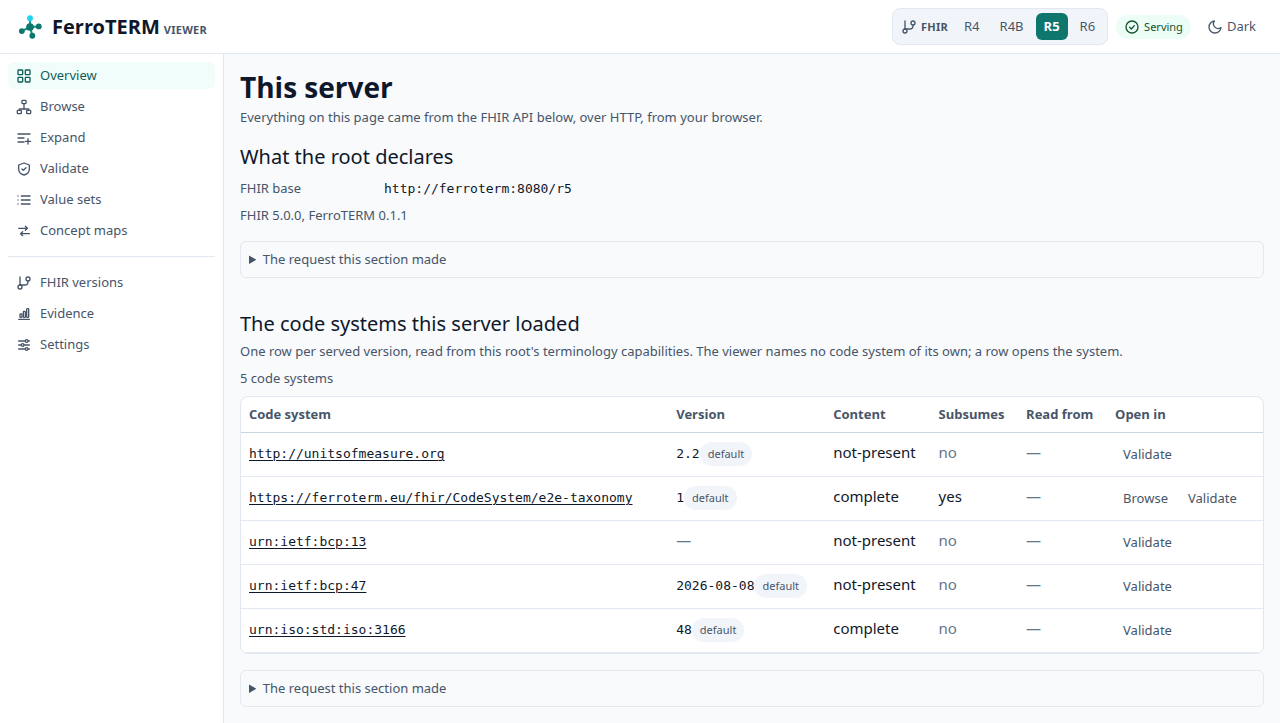
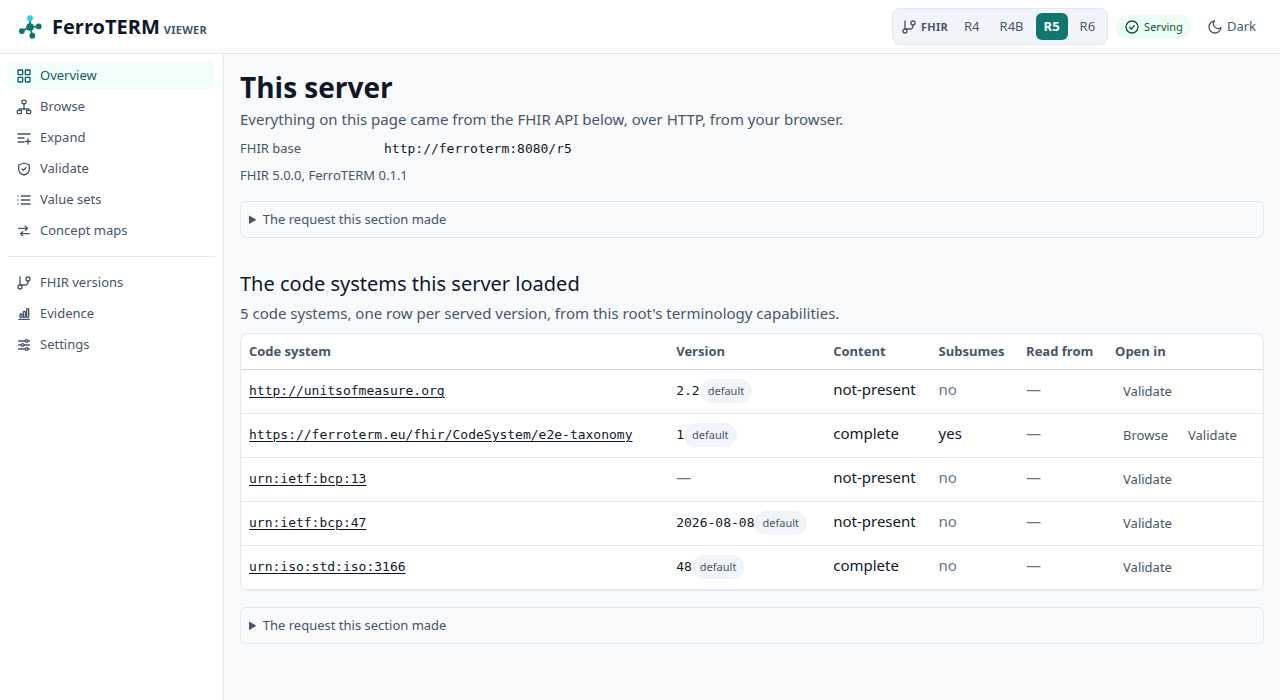
feat(viewer): compact tightens the whole rhythm, and the overview leads with its inventory
Compact moved a table row and a panel and nothing else, so a screen in compact
kept a comfortable screen's margins around a tighter table. The four spacing
steps now follow the density, which is what makes compact a density rather
than a row height: the steps reach Tailwind through a variable the way the
colour roles do, so one block of the stylesheet moves the whole rhythm.

The overview gave its own subject the second half of the screen. A heading and
a lead sentence over one address cost more than the address does, so the FHIR
base and the root's own line sit in the screen's header, and the sentence that
described the table is folded into the count beside it.

Measured in compact at a 1280 by 1000 window, the table now starts 280 pixels
down where it started 335, and a row is 32 pixels: nineteen systems read on a
1080p screen without scrolling and twenty need about 44 pixels more than one.
The header is what the remaining pixels are in, not the row.

diff --git a/app/ferroterm-viewer/style/tailwind.css b/app/ferroterm-viewer/style/tailwind.css
@@ -137,18 +137,22 @@
 
   /* Four steps on an 8-point grid, and nothing between them. A screen names a
      step, so the rhythm of one screen is the rhythm of every screen and a gap
-     is never re-decided in the file that needed it. */
-  --spacing-tight: 0.25rem;
-  --spacing-default: 0.5rem;
-  --spacing-loose: 1rem;
-  --spacing-section: 2rem;
+     is never re-decided in the file that needed it. The values follow the
+     density, which is why they reach Tailwind through a variable. */
+  --spacing-tight: var(--step-tight);
+  --spacing-default: var(--step-default);
+  --spacing-loose: var(--step-loose);
+  --spacing-section: var(--step-section);
 }
 
-
-/* Density is the reader's choice, and one variable apart. A table row and a
-   panel breathe in the comfortable default and tighten in compact, so a
-   twenty-system deployment fits one screen. */
+/* Density is the reader's choice, and one block apart. The four spacing steps
+   follow it, so compact tightens the whole rhythm of a screen rather than the
+   rows alone, and a twenty-system deployment fits one screen. */
 :root {
+  --step-tight: 0.25rem;
+  --step-default: 0.5rem;
+  --step-loose: 1rem;
+  --step-section: 2rem;
   --row-y: 0.5rem;
   --panel-p: 1rem;
 
@@ -158,6 +162,10 @@
 }
 
 :root[data-density="compact"] {
+  --step-tight: 0.125rem;
+  --step-default: 0.375rem;
+  --step-loose: 0.625rem;
+  --step-section: 1rem;
   --row-y: 0.25rem;
   --panel-p: 0.625rem;
 }

diff --git a/app/ferroterm-viewer/src/pages/overview.rs b/app/ferroterm-viewer/src/pages/overview.rs
@@ -29,28 +29,23 @@ pub(crate) fn OverviewPage() -> impl IntoView {
     let client = expect_context::<FhirClient>();
     let SelectedVersion(version) = expect_context::<SelectedVersion>();
 
-    let heading = view! {
-        <Title text="Overview" />
-        <h1 class=styles::PAGE_TITLE>"This server"</h1>
-        <p class=format!(
-            "mt-tight {}",
-            styles::MUTED,
-        )>"Everything on this page came from the FHIR API below, over HTTP, from your browser."</p>
-    }
-    .into_any();
-
-    let server = server_section(&client, version);
+    let header = header_view(&client, version);
     let systems = systems_section(&client, version);
 
     view! {
-        {heading}
-        {server}
+        <Title text="Overview" />
+        {header}
         {systems}
     }
 }
 
-/// What the selected root says about itself.
-fn server_section(client: &FhirClient, version: Signal<FhirVersion>) -> AnyView {
+/// The screen's own header: what it is, and which root it read.
+///
+/// The two facts about the root sit in the header rather than in a section of
+/// their own. A heading and a lead sentence over one address cost more of the
+/// screen than the address does, and this screen's subject is the inventory
+/// below.
+fn header_view(client: &FhirClient, version: Signal<FhirVersion>) -> AnyView {
     let statement_client = client.clone();
     let statement = LocalResource::new(move || {
         let client = statement_client.clone();
@@ -64,10 +59,11 @@ fn server_section(client: &FhirClient, version: Signal<FhirVersion>) -> AnyView 
     let url = Signal::derive(move || url_client.metadata_url(version.get()));
 
     view! {
-        <section class="mt-loose" aria-labelledby="capability-heading">
-            <h2 id="capability-heading" class=styles::SECTION_TITLE>
-                "What the root declares"
-            </h2>
+        <header>
+            <h1 class=styles::PAGE_TITLE>"This server"</h1>
+            <p class=styles::LEAD>
+                "Everything on this page came from the FHIR API below, over HTTP, from your browser."
+            </p>
             <dl class="mt-default grid gap-x-loose gap-y-tight sm:grid-cols-[8rem_1fr]">
                 <dt class=styles::MUTED>"FHIR base"</dt>
                 <dd class=styles::CODE>{base}</dd>
@@ -108,12 +104,12 @@ fn server_section(client: &FhirClient, version: Signal<FhirVersion>) -> AnyView 
                 }}
             </Reading>
             <RequestDisclosure url />
-        </section>
+        </header>
     }
     .into_any()
 }
 
-/// The code systems the selected root declares, one card each.
+/// The code systems the selected root declares, as one table.
 fn systems_section(client: &FhirClient, version: Signal<FhirVersion>) -> AnyView {
     let capabilities_client = client.clone();
     let capabilities = LocalResource::new(move || {
@@ -142,13 +138,7 @@ fn systems_section(client: &FhirClient, version: Signal<FhirVersion>) -> AnyView
             <h2 id="systems-heading" class=styles::SECTION_TITLE>
                 "The code systems this server loaded"
             </h2>
-            <p class=format!(
-                "mt-tight {}",
-                styles::MUTED,
-            )>
-                "One row per served version, read from this root's terminology capabilities. The viewer names no code system of its own; a row opens the system."
-            </p>
-            <p aria-live="polite" class=format!("mt-default {}", styles::MUTED)>
+            <p aria-live="polite" class=styles::LEAD>
                 {announcement}
             </p>
             <Reading label="Reading the terminology capabilities">
@@ -202,10 +192,17 @@ fn systems_view(cards: Vec<SystemCard>) -> AnyView {
 }
 
 /// How many code systems the root declared, as a sentence.
+///
+/// The sentence carries what the table is as well as how much of it there is,
+/// because a lead paragraph saying the same thing costs a line of every visit
+/// and a reader reads it once.
 fn count_sentence(count: usize) -> String {
     if count == 1 {
-        "1 code system".to_owned()
+        "1 code system, one row per served version, from this root's terminology capabilities."
+            .to_owned()
     } else {
-        format!("{count} code systems")
+        format!(
+            "{count} code systems, one row per served version, from this root's terminology capabilities."
+        )
     }
 }

diff --git a/e2e/tests/it/viewer.rs b/e2e/tests/it/viewer.rs
@@ -36,7 +36,8 @@ const SORT_BY_SYSTEM: &str = "//section[@aria-labelledby='systems-heading']//th[
 const SORTED_UP: &str = "section[aria-labelledby='systems-heading'] th[aria-sort='ascending']";
 
 /// The canonicals the table draws, in the order it draws them.
-const ROW_CANONICALS: &str = "section[aria-labelledby='systems-heading'] tbody a[href^='/ui/systems/']";
+const ROW_CANONICALS: &str =
+    "section[aria-labelledby='systems-heading'] tbody a[href^='/ui/systems/']";
 
 /// The code system screen's capability pane, by the heading it is labelled by.
 const CAPABILITY_PANE: &str = "section[aria-labelledby='system-capability-heading']";
